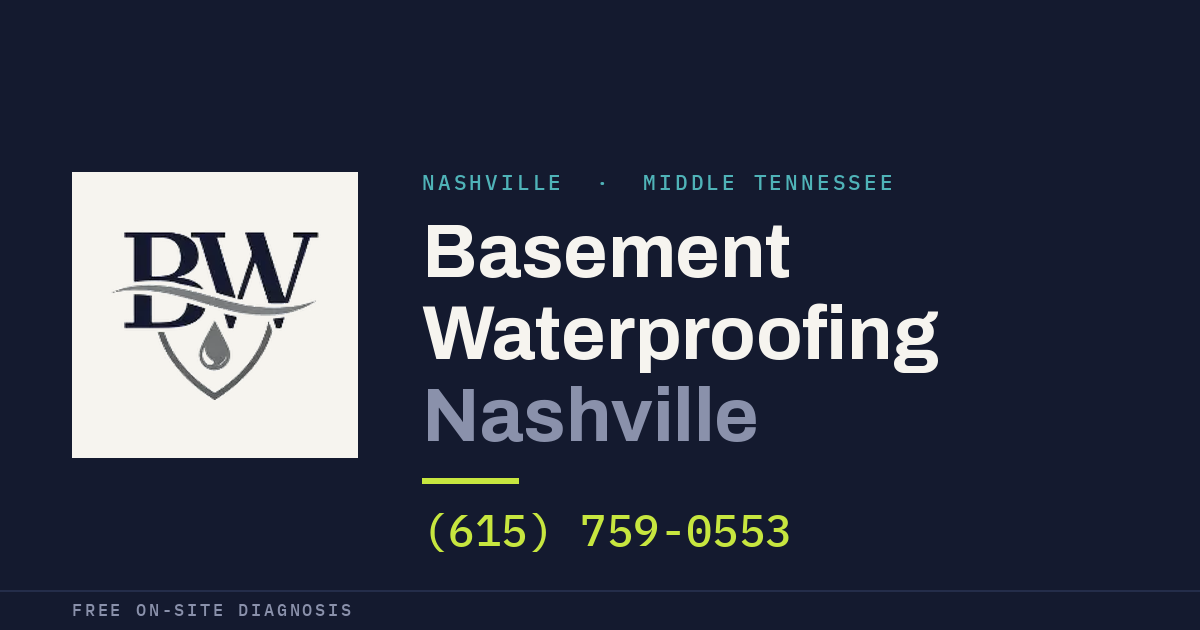
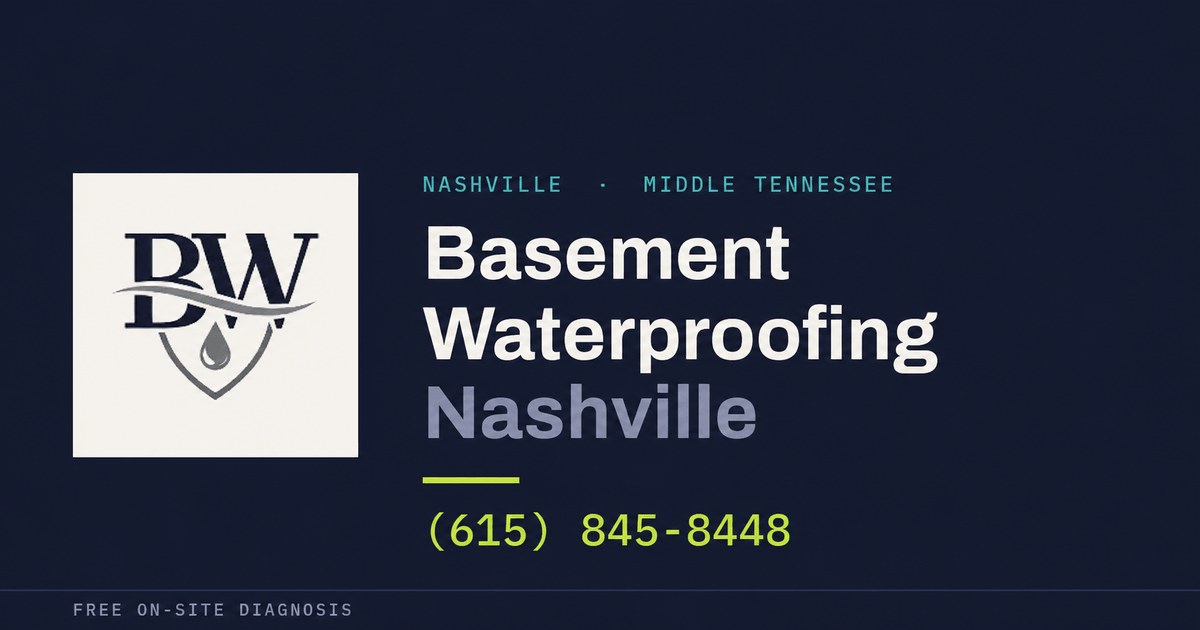
Update the business phone number

diff --git a/src/lib/schema.ts b/src/lib/schema.ts
@@ -3,6 +3,7 @@ import { aggregate, isSelfServing, type Review } from '@/data/reviews';
 import type { City } from '@/data/cities';
 import type { Service } from '@/data/services';
 import { publishedCities } from '@/data/cities';
+import { ogImage } from './seo';
 
 /**
  * JSON-LD BUILDERS
@@ -71,7 +72,7 @@ export function localBusinessSchema() {
       width: 512,
       height: 512,
     },
-    image: `${site.domain}/brand/og-image.png`,
+    image: `${site.domain}${ogImage.url}`,
     description: `Basement waterproofing, crawl space encapsulation and foundation drainage across ${site.serviceAreaLabel}.`,
     // Address is only emitted once a real one is entered. A service-area
     // business may legitimately omit it in favour of areaServed.
@@ -241,6 +242,6 @@ export function articleSchema(
     url,
     author: { '@id': ORG_ID },
     publisher: { '@id': ORG_ID },
-    image: `${site.domain}/brand/og-image.png`,
+    image: `${site.domain}${ogImage.url}`,
   });
 }

diff --git a/src/lib/seo.ts b/src/lib/seo.ts
@@ -14,9 +14,9 @@ import type { Service } from '@/data/services';
 
 export const metadataBase = new URL(site.domain);
 
-/** Social preview card. Generated from the brand mark — see assets/brand-src. */
+/** Version the URL when the social card changes so link previews fetch it again. */
 export const ogImage = {
-  url: '/brand/og-image.png',
+  url: '/brand/og-image.png?v=2',
   width: 1200,
   height: 630,
   alt: `${site.brand} — ${site.phone.display}`,

diff --git a/src/data/site.ts b/src/data/site.ts
@@ -17,8 +17,8 @@ export const site = {
   tagline: 'Water out. Foundation dry. Guaranteed.',
 
   phone: {
-    e164: '+16157590553',
-    display: '(615) 759-0553',
+    e164: '+16158458448',
+    display: '(615) 845-8448',
   },
 
   email: 'info@basementwaterproofingnashville.com',

diff --git a/README.md b/README.md
@@ -109,8 +109,7 @@ Business Connect, Bing Places, Yelp, Facebook, BBB, and every citation
 directory. Mismatched NAP between site and GBP is the most common local
 ranking problem.
 
-The phone number is `+1 615-759-0553` — a local Nashville number, which is
-what Google Business Profile wants. Do not swap it for a toll-free number.
+The business phone number is `(615) 845-8448`.
 
 ---
 
